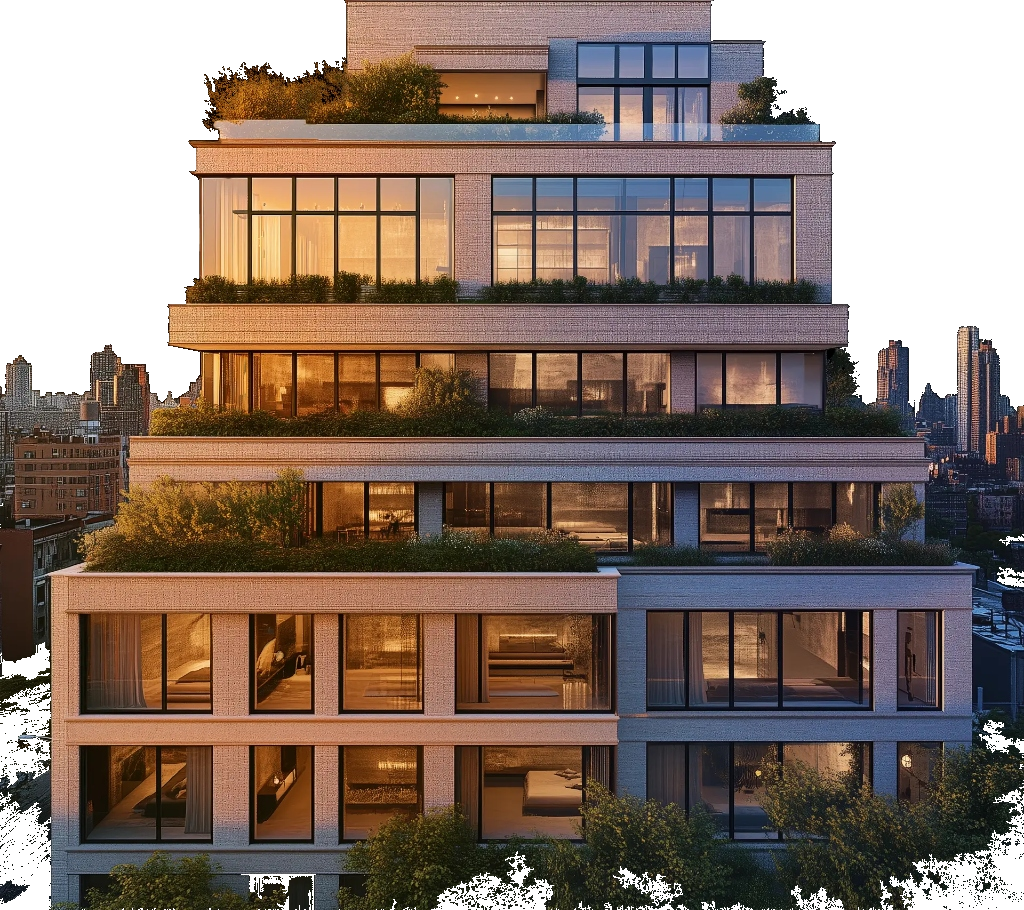
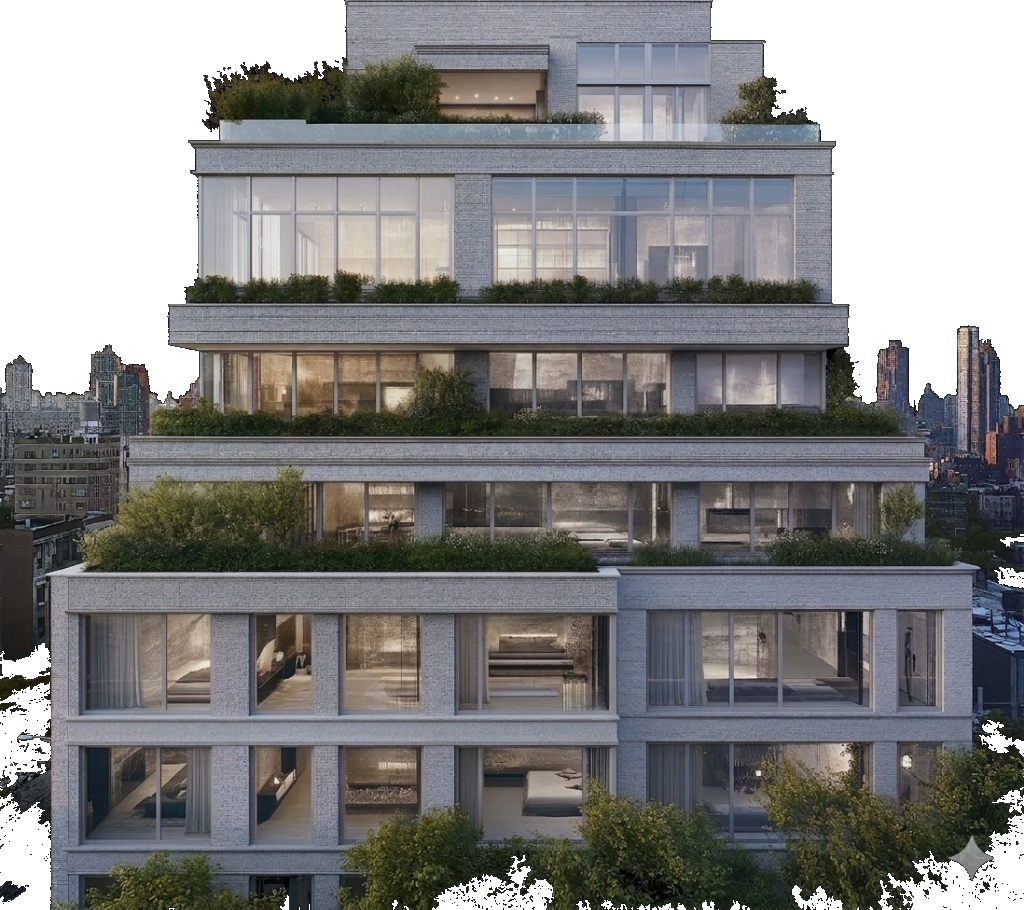
fully updated

diff --git a/src/components/Hero.jsx b/src/components/Hero.jsx
@@ -105,8 +105,8 @@ export default function Hero() {
      PHASE 3  (progress 0.80 → 1.0)
      - THD text transitions from outlined → solid white
      ========================================================== */
-  const solidT = Math.min(Math.max((progress - 0.80) / 0.20, 0), 1)
-  const solidE = easeInOutCubic(solidT)
+  // const solidT = Math.min(Math.max((progress - 0.80) / 0.20, 0), 1)
+  // const solidE = easeInOutCubic(solidT)
 
   return (
     <section
@@ -263,15 +263,15 @@ export default function Hero() {
           >
             {/* Group words so "Design What" and "Moves You" wrap nicely on mobile */}
             <span style={{ display: 'inline-block', whiteSpace: 'nowrap' }}>
-              <span style={{ color: 'rgba(26, 26, 24, 0.6)' }}>Designing </span>
-              <span style={{ color: 'rgba(26, 26, 24, 0.8)' }}>the </span>
+              <span style={{ color: 'rgba(255, 255, 255, 0.8)' }}>Designing </span>
+              <span style={{ color: 'rgba(255, 255, 255, 0.9)' }}>the </span>
             </span>
             {' '}
             <span
               style={{
                 display: 'inline-block',
                 whiteSpace: 'nowrap',
-                color: '#1A1A18',
+                color: 'var(--color-brand-yellow)',
                 fontWeight: 900,
               }}
             >
@@ -289,10 +289,10 @@ export default function Hero() {
               margin: '0 auto 24px',
             }}
           >
-            <span style={{ fontWeight: 600, color: '#1A1A18' }}>
+            <span style={{ fontWeight: 600, color: 'rgba(255, 255, 255, 0.95)' }}>
               Expert spaces. Real craftsmanship.
             </span>{' '}
-            <span style={{ color: '#4A4A45', fontWeight: 500 }}>
+            <span style={{ color: 'rgba(255, 255, 255, 0.7)', fontWeight: 500 }}>
               A clear path to find what's next.
             </span>
           </p>
@@ -463,6 +463,43 @@ export default function Hero() {
             </defs>
             {/* The background image that covers the building/clouds outside the letters */}
             <image href="/hero-bg.png" width="100%" height="100%" preserveAspectRatio="xMidYMid slice" mask="url(#thd-stencil)" />
+            
+            {/* PHASE 3 Solid fill text */}
+            <g style={{
+              transform: `scale(${thdScale})`,
+              transformOrigin: '50% 50%',
+              opacity: 1 - dropT, // Full color immediately, fades out as it drops into clouds
+            }}>
+              <text
+                x="50%"
+                y={`${thdTextYPercentFinal - 8}%`}
+                textAnchor="middle"
+                dominantBaseline="central"
+                fill="#FFFFFF"
+                style={{
+                  fontFamily: 'var(--font-display)',
+                  fontSize: 'clamp(7rem, 20vw, 22rem)',
+                  fontWeight: 900,
+                  letterSpacing: '-0.04em',
+                }}
+              >
+                THD
+              </text>
+              <text
+                x="50%"
+                y={`${thdTextYPercentFinal + (isMobile ? 3 : 20)}%`}
+                textAnchor="middle"
+                dominantBaseline="central"
+                fill="var(--color-brand-yellow)"
+                style={{
+                  fontFamily: 'var(--font-display)',
+                  fontSize: 'clamp(4rem, 10vw, 9rem)',
+                  fontWeight: 600,
+                }}
+              >
+                Studio
+              </text>
+            </g>
           </svg>
         </div>
 

diff --git a/src/components/About.jsx b/src/components/About.jsx
@@ -26,7 +26,7 @@ const stats = [
 const socials = [
   {
     name: 'Instagram',
-    url: 'https://instagram.com',
+    url: 'https://www.instagram.com/thdstudio.eg/',
     color: '#E1306C',
     icon: (
       <svg width="24" height="24" viewBox="0 0 24 24" fill="none" stroke="currentColor" strokeWidth="1.5" strokeLinecap="round" strokeLinejoin="round">
@@ -38,7 +38,7 @@ const socials = [
   },
   {
     name: 'LinkedIn',
-    url: 'https://linkedin.com',
+    url: 'https://www.linkedin.com/company/thdstudio/',
     color: '#0077B5',
     icon: (
       <svg width="24" height="24" viewBox="0 0 24 24" fill="currentColor">
@@ -48,7 +48,7 @@ const socials = [
   },
   {
     name: 'Facebook',
-    url: 'https://facebook.com',
+    url: 'https://www.facebook.com/profile.php?id=100064107966174',
     color: '#1877F2',
     icon: (
       <svg width="24" height="24" viewBox="0 0 24 24" fill="currentColor">
@@ -61,8 +61,8 @@ const socials = [
 const contacts = [
   {
     title: 'Location',
-    line1: '123 Design Avenue',
-    line2: 'Creative District, NY 10001',
+    line1: 'New Cairo',
+    line2: 'Cairo, Egypt',
     icon: (
       <svg width="24" height="24" viewBox="0 0 24 24" fill="none" stroke="currentColor" strokeWidth="1.5" strokeLinecap="round" strokeLinejoin="round">
         <path d="M21 10c0 7-9 13-9 13s-9-6-9-13a9 9 0 0 1 18 0z" />
@@ -72,7 +72,7 @@ const contacts = [
   },
   {
     title: 'Phone',
-    line1: '[phone redacted]',
+    line1: '010 06224062',
     line2: 'Mon-Fri, 9am - 6pm',
     icon: (
       <svg width="24" height="24" viewBox="0 0 24 24" fill="none" stroke="currentColor" strokeWidth="1.5" strokeLinecap="round" strokeLinejoin="round">
@@ -82,8 +82,8 @@ const contacts = [
   },
   {
     title: 'Email',
-    line1: '[email redacted]',
-    line2: '[email redacted]',
+    line1: '[email redacted]',
+    line2: '',
     icon: (
       <svg width="24" height="24" viewBox="0 0 24 24" fill="none" stroke="currentColor" strokeWidth="1.5" strokeLinecap="round" strokeLinejoin="round">
         <path d="M4 4h16c1.1 0 2 .9 2 2v12c0 1.1-.9 2-2 2H4c-1.1 0-2-.9-2-2V6c0-1.1.9-2 2-2z" />